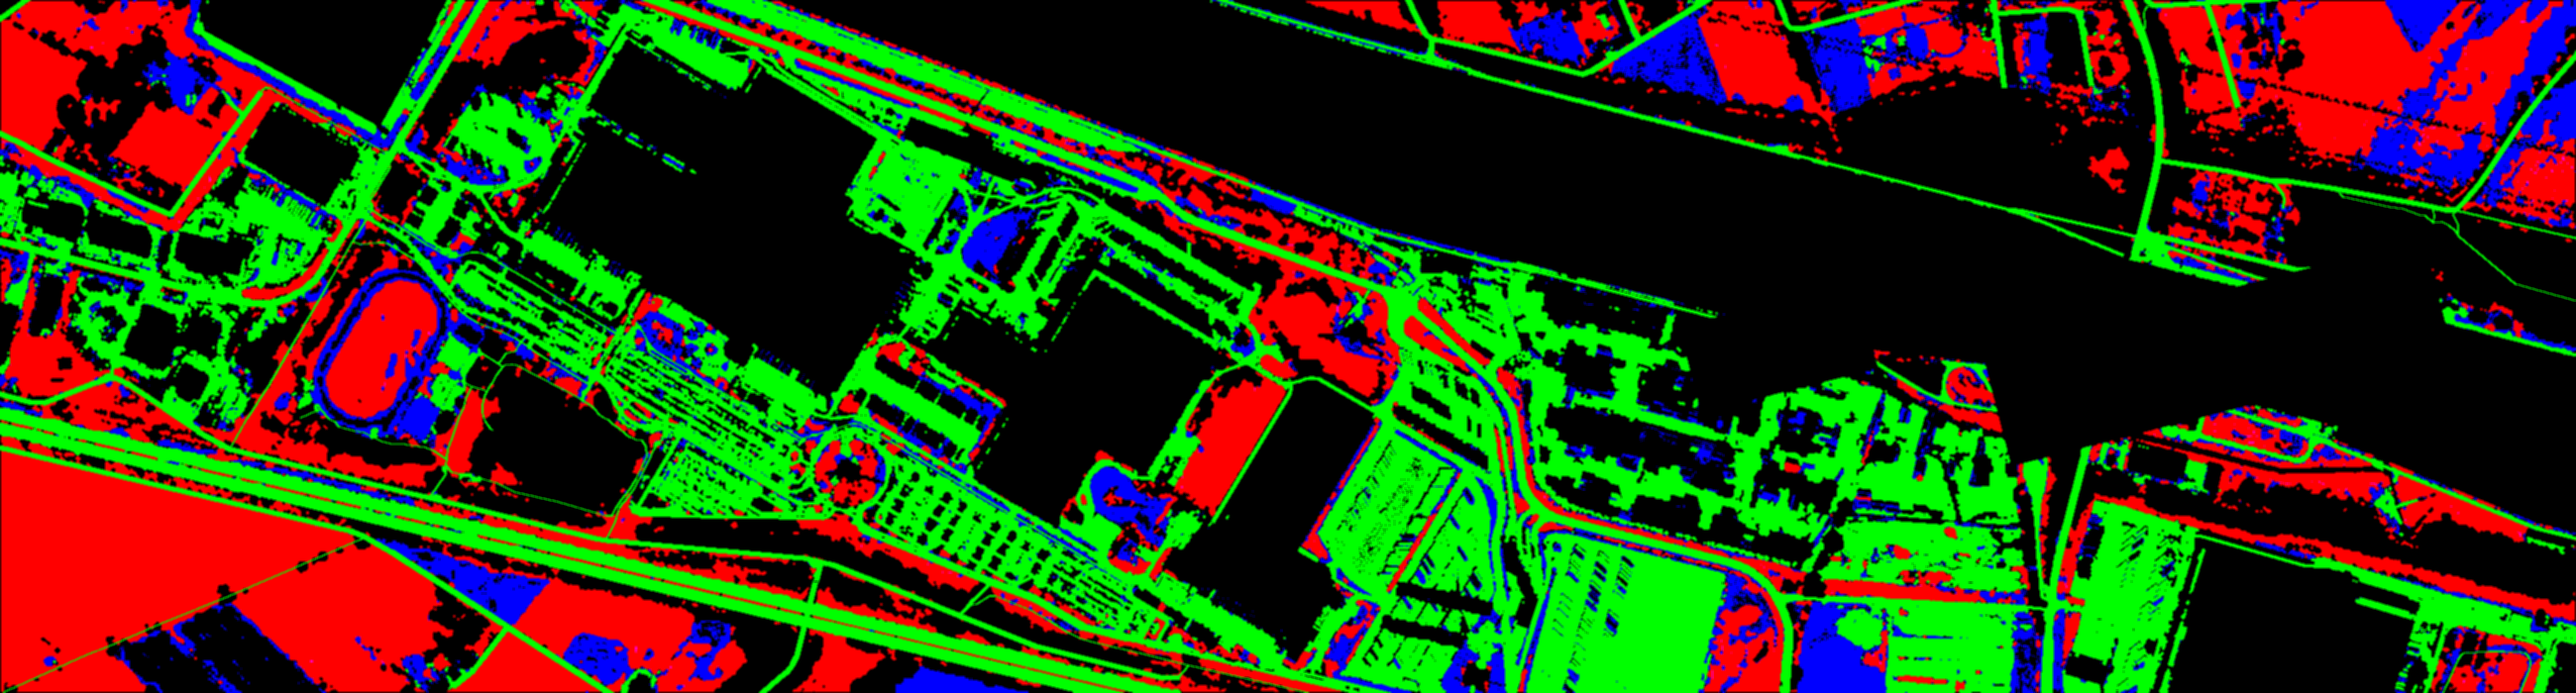
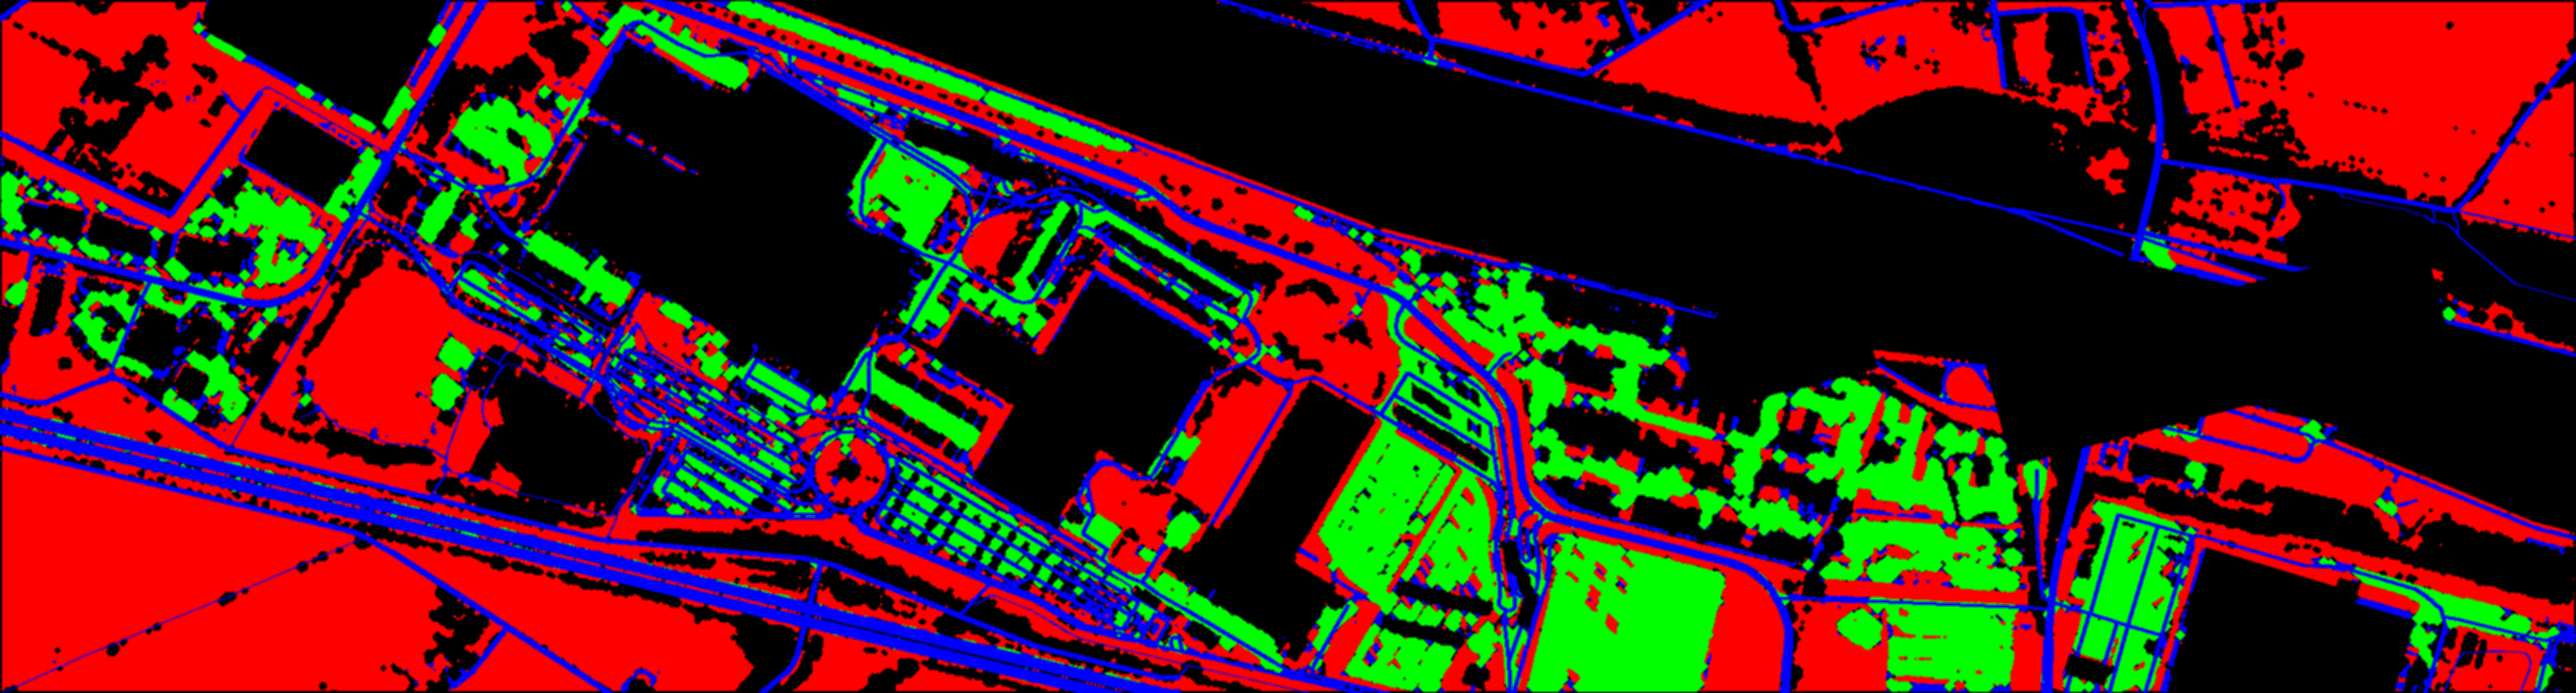
All unpaved land painted as grass, thin paving drawn as roads, extra tufts and bushes over the painted grass
Claude-Session: https://claude.ai/code/session_01TAnzRWbwSW9bsejqyfbSi1

diff --git a/index.html b/index.html
@@ -573,10 +573,23 @@ const GRASS=(()=>{ const N=512, c=document.createElement('canvas'); c.width=c.he
   const t=new THREE.CanvasTexture(c); t.wrapS=t.wrapT=THREE.RepeatWrapping; t.anisotropy=Math.min(8,renderer.capabilities.getMaxAnisotropy()); return t; })();
 const MACRO=(()=>{ const t=new THREE.CanvasTexture(noiseCanvas(256,(i,j)=>128+(nz2(i,j)-0.5)*150)); t.wrapS=t.wrapT=THREE.RepeatWrapping; return t; })();
 const GROUND_U={tGrass:{value:GRASS},tMacro:{value:MACRO},tMask:{value:null},maskO:{value:new THREE.Vector2(0,0)},maskS:{value:new THREE.Vector2(1,1)}};
-/* ground colour coding: assets/scene/groundmask.png (scripts/data/groundmask.py) marks grass (R), paved ground and streets (G)
-   and bare sandy ground (B) read from the 2024 photo and the LiDAR surface; the shader repaints those classes in solid, drawn colours */
-function loadGroundMask(){ if(!D.groundmask) return; const t=new THREE.TextureLoader().load('assets/scene/groundmask.png'); t.wrapS=t.wrapT=THREE.ClampToEdgeWrapping; t.minFilter=THREE.LinearFilter;
+/* ground colour coding: assets/scene/groundmask.png (scripts/data/groundmask.py) marks grass (R), the paved apron (G)
+   and roads (B) read from the 2024 photo and the LiDAR surface; the shader repaints those classes in solid, drawn colours */
+function loadGroundMask(){ if(!D.groundmask) return; const t=new THREE.TextureLoader().load('assets/scene/groundmask.png',tx=>{ try{ buildExtraCover(tx.image); }catch(e){ console.warn(e); } }); t.wrapS=t.wrapT=THREE.ClampToEdgeWrapping; t.minFilter=THREE.LinearFilter;
   GROUND_U.tMask.value=t; GROUND_U.maskO.value.set(D.groundmask.x0,D.groundmask.z0); GROUND_U.maskS.value.set(D.groundmask.w,D.groundmask.h); }
+/* vegetation over the whole painted grass area: tufts every few metres and a low bush now and then, read from the mask once it has loaded */
+function buildExtraCover(img){ const M=D.groundmask; const c=document.createElement('canvas'); c.width=img.width; c.height=img.height; const x=c.getContext('2d'); x.drawImage(img,0,0); const px=x.getImageData(0,0,c.width,c.height).data;
+  const step=IS_QUEST?6:3.5, sx=c.width/M.w, sz=c.height/M.h; const list=[];
+  for(let Z=M.z0+1;Z<M.z0+M.h-1;Z+=step) for(let X=M.x0+1;X<M.x0+M.w-1;X+=step){ const hh=Math.abs((Math.sin(X*12.9898+Z*78.233)*43758.5453)%1), h2=(hh*7.31)%1;
+    const jx=X+(hh-0.5)*step, jz=Z+(h2-0.5)*step; const i=((Math.floor((jz-M.z0)*sz)*c.width)+Math.floor((jx-M.x0)*sx))*4; if(px[i]<140) continue;
+    if(inHub(jx,jz)||inLock(jx,jz,-12)) continue; list.push([jx,jz,hh,h2]); }
+  if(!list.length) return; const n=list.length; const geo=new THREE.InstancedBufferGeometry(); const pl=new THREE.PlaneGeometry(1,1); pl.translate(0,0.5,0);
+  geo.index=pl.index; geo.attributes.position=pl.attributes.position; geo.attributes.uv=pl.attributes.uv;
+  const pos=new Float32Array(n*3), size=new Float32Array(n*2), vari=new Float32Array(n*2); let k=0;
+  for(const [X,Z,hh,h2] of list){ const y=hAt(X,Z)-0.05; const bush=h2>0.96; pos[k*3]=X; pos[k*3+1]=y; pos[k*3+2]=Z;
+    size[k*2]=bush?2.2+hh*1.4:1.5+hh*1.1; size[k*2+1]=bush?1.4+h2*0.8:0.45+h2*0.5; vari[k*2]=bush?0:(hh>0.8?3:2); vari[k*2+1]=0.72+hh*0.3; k++; }
+  geo.setAttribute('aPos',new THREE.InstancedBufferAttribute(pos,3)); geo.setAttribute('aSize',new THREE.InstancedBufferAttribute(size,2)); geo.setAttribute('aVar',new THREE.InstancedBufferAttribute(vari,2));
+  geo.instanceCount=k; const m=new THREE.Mesh(geo,billboardMat(coverAtlas())); m.frustumCulled=false; scene.add(m); if(TEST) console.warn('extra cover '+k); }
 function groundMaterial(map){ const m=new THREE.MeshLambertMaterial({map});
   m.onBeforeCompile=sh=>{ Object.assign(sh.uniforms,GROUND_U);
     sh.vertexShader='varying vec3 vGP; varying vec3 vGN;\n'+sh.vertexShader.replace('#include <project_vertex>','#include <project_vertex>\n vGP=(modelMatrix*vec4(transformed,1.0)).xyz; vGN=normalize(mat3(modelMatrix)*objectNormal);');
@@ -597,8 +610,11 @@ function groundMaterial(map){ const m=new THREE.MeshLambertMaterial({map});
   float mac=texture2D(tMacro,vGP.xz*0.009).r*2.0;
   vec2 mu=(vGP.xz-maskO)/maskS; float inM=step(0.0,mu.x)*step(mu.x,1.0)*step(0.0,mu.y)*step(mu.y,1.0)*(1.0-steep);
   vec3 mk=texture2D(tMask,vec2(mu.x,1.0-mu.y)).rgb*inM;
-  vec3 grassCol=vec3(0.105,0.215,0.045)*(0.78+0.44*g2); vec3 pavedCol=vec3(0.33,0.33,0.31); vec3 bareCol=vec3(0.40,0.33,0.22);
-  col=mix(col,grassCol,mk.r*0.85); col=mix(col,pavedCol*(0.9+0.2*mac),mk.g*0.7); col=mix(col,mix(col,bareCol,0.5),mk.b*0.55);
+  // drawn land cover: grass with patchy light and dark areas, the apron in light concrete, roads in dark asphalt
+  float patch=texture2D(tMacro,vGP.xz*0.004+0.37).r;
+  vec3 grassCol=mix(vec3(0.085,0.19,0.035),vec3(0.17,0.27,0.06),patch)*(0.82+0.36*g2);
+  vec3 pavedCol=vec3(0.36,0.36,0.34); vec3 roadCol=vec3(0.075,0.078,0.08)*(0.85+0.3*g1);
+  col=mix(col,grassCol,mk.r*0.94); col=mix(col,pavedCol*(0.9+0.2*mac),mk.g*0.8); col=mix(col,roadCol,mk.b*0.9);
   float amt=max(max(green,steep*0.9),mk.r);
   col*=mix(1.0,det,(0.75*amt+0.22)*near);
   col*=mix(1.0,mac,0.22+0.18*amt);
@@ -607,7 +623,7 @@ function groundMaterial(map){ const m=new THREE.MeshLambertMaterial({map});
   diffuseColor.rgb=col;
  }`);
   };
-  m.customProgramCacheKey=()=>'ground2'; return m; }
+  m.customProgramCacheKey=()=>'ground3'; return m; }
 function buildTerrain(){
   const vr=IS_QUEST;
   for(const c of D.chunks.chunks){
